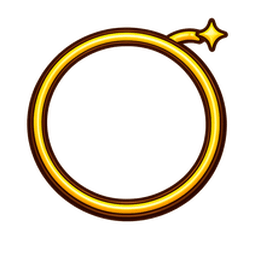
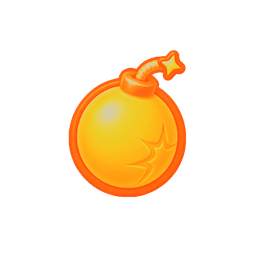
feat(garden): 定稿特殊棋子叠加层并汇总交付反馈

diff --git a/garden/docs/Codex 美术出图交付反馈（截至 2026-08-09）.md b/garden/docs/Codex 美术出图交付反馈（截至 2026-08-09）.md
@@ -1,0 +1,70 @@
+# Garden Match 美术出图交付反馈
+
+截至 2026-08-09，本记录覆盖本轮已执行的第 0、2、5、6 批工单。第 5 批已退回，不计入有效交付；第 0 批主形象已获确认，第 2 批派生素材与第 6 批叠加层已完成并留存验收结果。
+
+| 批次 | 状态 | 交付内容 |
+| --- | --- | --- |
+| 第 0 批：旺财 Master | 已确认 | `pet-wangcai-master.png` |
+| 第 2 批：旺财 Puppet / 状态 | 已交付 | Puppet 分层、happy、hint、合成预览 |
+| 第 5 批：叠加层风格重做 | 已退回 | 不作为有效素材；结论已用于第 6 批修正 |
+| 第 6 批：叠加层最终返工 | 已通过脚本验收 | 横向火箭、纵向火箭、炸弹及验收预览 |
+
+## 第 0 批：旺财 Master
+
+最终主图位于 [pet-wangcai-master.png](../assets/pet/pet-wangcai-master.png)。
+
+- 首轮未硬性交付：内置出图原始结果为 1254×1254、无 Alpha；在工单修订为“生成 + 后处理”后重新执行。
+- 最终文件为 1024×1024 RGBA PNG，保留四爪、短粗上翘尾巴与四周留白。
+- 候选与后处理版本保留在 `garden/assets/pet/candidates/`。
+- 主形象已获“这就是旺财”确认，随后才进入派生阶段。
+
+## 第 2 批：旺财 Puppet 与状态图
+
+交付目录为 [`garden/assets/pet/wangcai/`](../assets/pet/wangcai/)，包括：
+
+- `body.png`：包含头部，符合 Stage 0 的分层取舍。
+- `tail.png`、`ears.png`：各自完整绘制，根部分别朝左侧与上方，便于代码侧设置旋转锚点。
+- `eyes-open.png`、`eyes-blink.png`：同尺寸、同位置，避免切换位移。
+- `preview-composite.png`：分层合成预览。
+- `pet-wangcai-happy.png`、`pet-wangcai-hint.png`：本批仅要求的两个状态图。
+
+验收重点包括分层可拼回主形象、深色底检查透明边缘，以及小尺寸下表情与整体轮廓的可读性。其余 V1 Full 状态没有提前生成。
+
+## 第 5 批：叠加层退回结论
+
+第 5 批三张叠加层均被退回，原因不是功能指标本身，而是错误地通过压低亮芯来收窄对比：亮芯亮度 P95 从旧版约 221–241 降至 135–137，造成与橙色棋子撞色，并使 40px 下火箭方向不清晰。
+
+该批素材不应视为定稿。返工原则明确为：保留明亮金色高光，从中间过渡与暗部端收敛明暗跨度；火箭同时重做轮廓，炸弹保留“球体 + 引线”的可识别造型，仅调整配色。
+
+## 第 6 批：叠加层最终返工
+
+定稿源素材位于 [`garden/assets/pieces/`](../assets/pieces/)：
+
+- `overlay-rocket-h.png`：加粗的单向右箭头，40px 下仍可辨识水平清除方向。
+- `overlay-rocket-v.png`：加粗的单向上箭头，40px 下仍可辨识垂直清除方向。
+- `overlay-bomb.png`：保留球体与引线，只更新配色与高光层次。
+
+运行时目录也已同步至 `garden/web/public/assets/pieces/`。候选、分色版本及验收图保留在 `garden/assets/pieces/candidates/redo6/`，其中包括 `overlays-redo6-final-preview.png` 与 `overlays-redo6-validation-preview.png`。
+
+最终以以下命令验收并退出码为 0：
+
+```bash
+python3 garden/tools/check-overlays.py \\
+  --dir garden/web/public/assets/pieces \\
+  --preview garden/assets/pieces/candidates/redo6/overlays-redo6-final-preview.png
+```
+
+| 素材 | 明暗跨度 P95−P05 | 芯部 P95 | 覆盖面积 |
+| --- | ---: | ---: | ---: |
+| 横向火箭 | 84.1 | 204.3 | 10.6% |
+| 纵向火箭 | 88.2 | 201.3 | 10.7% |
+| 炸弹 | 86.8 | 204.3 | 19.0% |
+
+三张素材均满足：芯部亮度 P95 ≥ 190、明暗跨度 ≤ 90、火箭面积 ≤ 12%、炸弹面积 ≤ 25%，并通过六种棋子颜色下的灰度差及亮度/色相分离交叉校验。输出保持无损 PNG；未进行 pngquant 等有损压缩。
+
+## 当前有效交付
+
+- 旺财 Master 已确认，可作为后续新增状态和动画派生的唯一形象基准。
+- 旺财 Puppet、happy 与 hint 已交付；其余状态仍按工单计划推迟。
+- 三张特殊棋子叠加层已以第 6 批版本替换，代码无需改动。
+- 第 5 批仅保留为返工经验与对比依据，不应被重新引用为正式资产。
